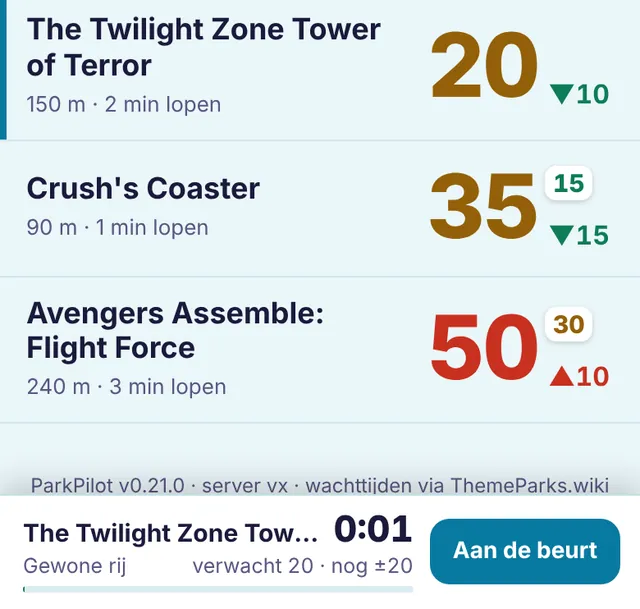
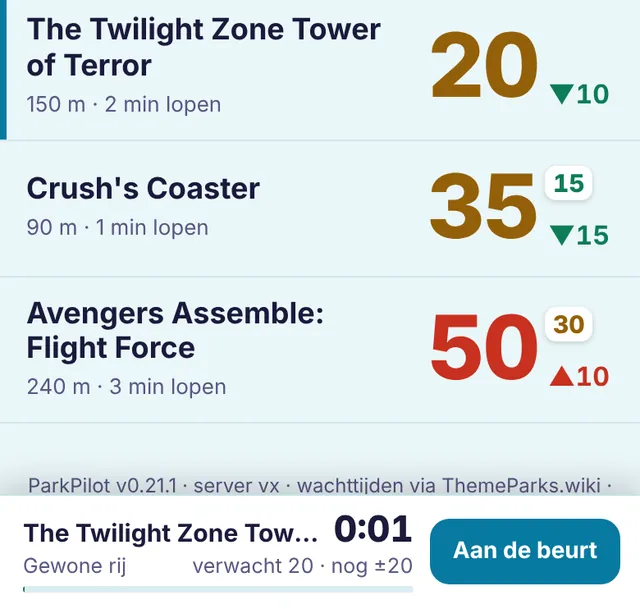
0.21.1: storingstabel sorteren via de kop
Claude-Session: https://claude.ai/code/session_01LXXgKJXN9PFNCm2MGwjbKb

Changed region(s): [[0.0312, 0.78, 0.9688, 0.8112]]

diff --git a/apps/web/src/main.ts b/apps/web/src/main.ts
@@ -321,7 +321,24 @@ async function loadIncidents(): Promise<void> {
   }
 }
 
-/** Tijdlijn van de storingen van vandaag: samenvatting, as van opening tot sluiting, per attractie een balk. */
+/** Sortering van de storingstabel. Standaard nieuwste eerst; onthouden op dit toestel (`pp.incSort`). */
+type IncSortKey = 'time' | 'dur' | 'name';
+const INC_SORT_KEY = 'pp.incSort';
+let incSort: { key: IncSortKey; dir: 1 | -1 } = (() => {
+  try {
+    const v = JSON.parse(store.get(INC_SORT_KEY) ?? 'null') as { key: IncSortKey; dir: 1 | -1 } | null;
+    if (v && ['time', 'dur', 'name'].includes(v.key) && (v.dir === 1 || v.dir === -1)) return v;
+  } catch { /* negeren */ }
+  return { key: 'time', dir: -1 };
+})();
+
+/** Zelfde kop nog eens: omdraaien. Andere kop: tijd en duur beginnen aflopend (nieuwste/langste), naam oplopend (A–Z). */
+function setIncSort(key: IncSortKey): void {
+  incSort = incSort.key === key ? { key, dir: incSort.dir === 1 ? -1 : 1 } : { key, dir: key === 'name' ? 1 : -1 };
+  store.set(INC_SORT_KEY, JSON.stringify(incSort));
+}
+
+/** Storingen van vandaag: samenvatting en een sorteerbare tabel (tijd · duur · attractie). */
 function incidentsNode(close: () => void): HTMLElement {
   const now = Date.now();
   const entry: IncEntry | null = sim.on ? { at: now, ok: true, data: simulateIncidents(state.entities, now) } : incEntry();
@@ -351,22 +368,37 @@ function incidentsNode(close: () => void): HTMLElement {
     return box;
   }
 
-  // Tabel: één regel per storing (tijd · duur · attractie). Lopende eerst, daarna de nieuwste bovenaan.
-  const rows = [...items].sort((x, y) => Number(y.end === null) - Number(x.end === null) || y.s - x.s);
+  // Tabel: één regel per storing (tijd · duur · attractie). Sorteren door op de kop te tikken (sinds 0.21.1).
   const rides = new Set(items.map((x) => x.entityId)).size;
   const totalMin = items.reduce((n, x) => n + x.min, 0);
   box.append(h('p', { class: 'inc-sum' }, ...T.incSummary(items.length, rides, dur(totalMin)).map((part, i) => (i % 2 ? h('b', {}, part) : part))));
-  const table = h('div', { class: 'inc-table', role: 'table' },
-    h('div', { class: 'inc-tr inc-th', role: 'row' },
-      h('span', { role: 'columnheader' }, T.incColTime), h('span', { role: 'columnheader' }, T.incColDur), h('span', { role: 'columnheader' }, T.incColName)));
-  for (const x of rows) {
-    const e = byId.get(x.entityId) as EntityInfo;
-    const live = x.end === null;
-    table.append(h('button', { class: `inc-tr${live ? ' live' : ''}`, role: 'row', onclick: () => { close(); openDetail(e); } },
-      h('span', { class: 'inc-time', role: 'cell' }, `${x.startKnown || hours ? clock(x.s, tz()) : T.incEarlier}–${live ? T.now : clock(x.e, tz())}`),
-      h('span', { class: 'inc-dur', role: 'cell' }, dur(x.min)),
-      h('span', { class: 'inc-name', role: 'cell' }, live ? h('i', { class: 'inc-dot', 'aria-label': T.incOngoing }) : null, e.name)));
-  }
+  const nameOf = (x: typeof items[number]): string => byId.get(x.entityId)?.name ?? '';
+  const table = h('div', { class: 'inc-table', role: 'table' });
+  const paintTable = (): void => {
+    const { key, dir } = incSort;
+    const cmp = (x: typeof items[number], y: typeof items[number]): number =>
+      key === 'dur' ? x.min - y.min : key === 'name' ? nameOf(x).localeCompare(nameOf(y), T.locale) : x.s - y.s;
+    const rows = [...items].sort((x, y) => dir * cmp(x, y) || y.s - x.s);
+    const head = (k: IncSortKey, label: string): Node => {
+      const on = key === k;
+      return h('button', {
+        class: `inc-sort${on ? ' on' : ''}`, role: 'columnheader',
+        'aria-sort': on ? (dir === 1 ? 'ascending' : 'descending') : 'none',
+        onclick: () => { setIncSort(k); paintTable(); },
+      }, label, h('span', { class: 'inc-arrow', 'aria-hidden': 'true' }, on ? (dir === 1 ? '▲' : '▼') : ''));
+    };
+    table.replaceChildren(h('div', { class: 'inc-tr inc-th', role: 'row' },
+      head('time', T.incColTime), head('dur', T.incColDur), head('name', T.incColName)));
+    for (const x of rows) {
+      const e = byId.get(x.entityId) as EntityInfo;
+      const live = x.end === null;
+      table.append(h('button', { class: `inc-tr${live ? ' live' : ''}`, role: 'row', onclick: () => { close(); openDetail(e); } },
+        h('span', { class: 'inc-time', role: 'cell' }, `${x.startKnown || hours ? clock(x.s, tz()) : T.incEarlier}–${live ? T.now : clock(x.e, tz())}`),
+        h('span', { class: 'inc-dur', role: 'cell' }, dur(x.min)),
+        h('span', { class: 'inc-name', role: 'cell' }, live ? h('i', { class: 'inc-dot', 'aria-label': T.incOngoing }) : null, e.name)));
+    }
+  };
+  paintTable();
   box.append(table);
   if (stale) box.append(h('p', { class: 'inc-stale' }, T.histStale(clock(entry.at, tz()))));
   box.append(h('p', { class: 'hint' }, T.incHint));

diff --git a/apps/web/src/i18n.ts b/apps/web/src/i18n.ts
@@ -85,7 +85,7 @@ const nl = {
   incColDur: 'Duur',
   incColName: 'Attractie',
   incEarlier: 'eerder',
-  incHint: 'Op basis van metingen van ParkPilot, elke 5 minuten. Tik op een regel voor het verloop.',
+  incHint: 'Op basis van metingen van ParkPilot, elke 5 minuten. Tik op een kop om te sorteren (nog eens = omgekeerd), op een regel voor het verloop.',
   issuesHint: 'De duur komt uit wat ParkPilot zelf heeft gezien. "Al minstens" betekent dat de sluiting al liep toen ParkPilot begon te meten. Onder Onderhoud staan ook attracties die al meer dan een dag dicht zijn zonder update van de bron; de datum is de laatste update.',
 
   // Rijen
@@ -552,7 +552,7 @@ const en: Dict = {
   incColDur: 'Duration',
   incColName: 'Ride',
   incEarlier: 'earlier',
-  incHint: 'Based on ParkPilot’s own measurements, every 5 minutes. Tap a row for its timeline.',
+  incHint: 'Based on ParkPilot’s own measurements, every 5 minutes. Tap a heading to sort (again = reverse), a row for its timeline.',
   issuesHint: 'The duration is based on what ParkPilot has seen itself. "For at least" means the closure was already going on when ParkPilot started measuring. Refurbishment also lists rides that have been closed for more than a day without an update from the source; the date is the last update.',
 
   changed: (ago) => `changed ${ago}`,
@@ -1003,7 +1003,7 @@ const pt: Dict = {
   incColDur: 'Duração',
   incColName: 'Atração',
   incEarlier: 'antes',
-  incHint: 'Com base nas medições do ParkPilot, a cada 5 minutos. Toque numa linha para ver o histórico.',
+  incHint: 'Com base nas medições do ParkPilot, a cada 5 minutos. Toque num cabeçalho para ordenar (de novo = inverter), numa linha para ver o histórico.',
   issuesHint: 'A duração baseia-se no que o próprio ParkPilot viu. "Há pelo menos" significa que o fecho já estava a decorrer quando o ParkPilot começou a medir. Em Manutenção aparecem também atrações fechadas há mais de um dia sem atualização da fonte; a data é a última atualização.',
 
   changed: (ago) => `alterado ${ago}`,

diff --git a/apps/web/src/style.css b/apps/web/src/style.css
@@ -583,6 +583,9 @@ html.game-open, html.game-open body { overflow: hidden; }
 .inc-tr { display: grid; grid-template-columns: 94px 68px minmax(0, 1fr); gap: 8px; align-items: center; width: 100%; text-align: left; padding: 7px 12px; font-size: 14px; line-height: 1.3; border-top: 1px solid color-mix(in srgb, var(--line) 70%, transparent); }
 .inc-tr:active { background: var(--raised2); }
 .inc-th { border-top: 0; padding-top: 6px; padding-bottom: 5px; font-size: 11px; font-weight: 700; letter-spacing: .05em; text-transform: uppercase; color: var(--muted); background: color-mix(in srgb, var(--raised2) 55%, var(--raised)); }
+.inc-sort { display: inline-flex; align-items: center; gap: 3px; min-height: 28px; margin: -6px 0 -5px; font: inherit; letter-spacing: inherit; text-transform: inherit; color: inherit; text-align: left; touch-action: manipulation; user-select: none; -webkit-user-select: none; }
+.inc-sort.on { color: var(--text); }
+.inc-arrow { font-size: 9px; color: var(--accent); min-width: 9px; }
 .inc-time, .inc-dur { font-variant-numeric: tabular-nums; white-space: nowrap; }
 .inc-time { font-weight: 650; }
 .inc-dur { color: var(--muted); }

diff --git a/apps/web/src/changelog.ts b/apps/web/src/changelog.ts
@@ -8,6 +8,13 @@ export interface ChangelogEntry { version: string; date?: string; changes: strin
 
 export const CHANGELOG: ChangelogEntry[] = [
   {
+    version: '0.21.1',
+    date: '2026-11-21',
+    changes: ['Storingstabel sorteren: tik op Tijd, Duur of Attractie. Nog eens tikken draait de volgorde om. De keuze wordt onthouden.'],
+    en: ['Sort the breakdowns table: tap Time, Duration or Ride. Tap again to reverse the order. Your choice is remembered.'],
+    pt: ['Ordenar a tabela de avarias: toque em Hora, Duração ou Atração. Toque de novo para inverter a ordem. A escolha fica guardada.'],
+  },
+  {
     version: '0.21.0',
     date: '2026-11-21',
     changes: [

diff --git a/packages/shared/src/version.ts b/packages/shared/src/version.ts
@@ -1,2 +1,2 @@
 /** Eén bron voor het versienummer; app en server tonen dit allebei. Verhoog bij elke oplevering. */
-export const APP_VERSION = '0.21.0';
+export const APP_VERSION = '0.21.1';

diff --git a/HANDOVER.md b/HANDOVER.md
@@ -1,6 +1,6 @@
 # ParkPilot: overdrachtsdocument
 
-Eerste versie 21 november 2026. **Laatst bijgewerkt: 21 november 2026, 23:15** (zie logboek, hoofdstuk 16). Doel: een nieuwe Claude-chat, ook in een ander account, kan hiermee zonder voorkennis verder bouwen. Alles wat nodig is staat hier of in de repo. Lees dit eerst helemaal, vooral de hoofdstukken 2, 3, 4.1, 12 en **15**.
+Eerste versie 21 november 2026. **Laatst bijgewerkt: 21 november 2026, 23:00** (zie logboek, hoofdstuk 16). Doel: een nieuwe Claude-chat, ook in een ander account, kan hiermee zonder voorkennis verder bouwen. Alles wat nodig is staat hier of in de repo. Lees dit eerst helemaal, vooral de hoofdstukken 2, 3, 4.1, 12 en **15**.
 
 **Vaste afspraak:** Claude werkt dit document bij na elke wijziging, beslissing of nieuwe kennis, in dezelfde beurt, zowel in het claude.ai-project "ParkPilot" (`claude/ParkPilot-HANDOVER.md`) als in de repo (`HANDOVER.md`). Wat Claude leert over Remco's werkwijze en voorkeuren, en alles wat hij een "framework feature" noemt, gaat naar hoofdstuk 15.
 
@@ -14,7 +14,7 @@ Eerste versie 21 november 2026. **Laatst bijgewerkt: 21 november 2026, 23:15** (
 - **Live:** https://parkpilot.remco-dv.workers.dev
 - **Repo:** https://github.com/RemcoNLD/parkpilot (publiek). Cloudflare Workers Builds bouwt en deployt automatisch bij elke commit.
 - **Stack:** Vite + TypeScript (vanilla, geen framework) · één Cloudflare Worker (API + statische assets) · Cloudflare D1 (SQLite) · live data van ThemeParks.wiki.
-- **Versie in de code:** `0.21.0` (`packages/shared/src/version.ts` en `package.json`), gepusht naar `main` op 21 nov 2026 ~23:15: langdurig dicht → Onderhoud (6.14) en storingen van vandaag als compacte tabel (6.13). Daarvoor 0.20.0 (storingen als tijdlijnen, door Remco afgekeurd) en 0.19.0 (commit a08faa6): grijs bij een stille bron (6.5b), rondleiding met schermafbeeldingen (6.12), menuknop ☰, waarschuwingen bij de koppelcode. Daarvoor 0.18.1 (grafiek opening–sluiting) en 0.18.0 (rondleiding, help, stippellijn). Nog niet door Remco bevestigd. 0.9.0 (single rider) bevestigd met "Werkt".
+- **Versie in de code:** `0.21.1` (`packages/shared/src/version.ts` en `package.json`), gepusht naar `main` op 21 nov 2026 ~23:00: storingstabel sorteerbaar via de kop (6.13). Daarvoor 0.21.0: langdurig dicht → Onderhoud (6.14) en storingen van vandaag als compacte tabel (6.13). Daarvoor 0.20.0 (storingen als tijdlijnen, door Remco afgekeurd) en 0.19.0 (commit a08faa6): grijs bij een stille bron (6.5b), rondleiding met schermafbeeldingen (6.12), menuknop ☰, waarschuwingen bij de koppelcode. Daarvoor 0.18.1 (grafiek opening–sluiting) en 0.18.0 (rondleiding, help, stippellijn). Nog niet door Remco bevestigd. 0.9.0 (single rider) bevestigd met "Werkt".
 - **Rondleiding en help (sinds 0.18.0):** zie 6.12. De menuknop rechtsboven (☰, sinds 0.19.0; was een tandwiel) opent Instellingen / Help / Rondleiding.
 - **Bij elke nieuwe versie:** nummer ophogen in `version.ts` + `package.json` **én** een regel toevoegen bovenaan `apps/web/src/changelog.ts` (in de app: Instellingen > Wat is er nieuw), in het Nederlands (`changes`), Engels (`en`) én Portugees (`pt`), datum als `JJJJ-MM-DD`. Korte, gewone taal, gericht op wat Remco ziet.
 - **Meertalig:** Nederlands, Engels (sinds 0.13.0) en Portugees (sinds 0.16.0). Elke tekst in de app staat in `apps/web/src/i18n.ts` (nl + en + pt). Nooit losse teksten in `main.ts`; nieuwe teksten altijd in alle drie de talen; zie 6.9.
@@ -156,7 +156,7 @@ De oude losse bestanden in de repo-root (`dom.ts`, `main.ts` enz. van de eerste 
 - De live-route leest D1, schrijft niet.
 
 ### Frontend-state en opslag
-- localStorage: `pp.cache.<park>`, `pp.parks`, `pp.park`, `pp.pos`, `pp.theme`, `pp.lang` (alleen bij een vaste taalkeuze), `pp.density`, `pp.sim`, `pp.issuesSeen.<park>` (+ `.sim.`), `pp.hist.<park>` (wachttijdverloop van vandaag, zie 6.5), `pp.queue` (rij waar je nu in staat) en `pp.queueLog` (afgeronde rijen van vandaag), zie 6.10; `pp.gameName`, `pp.gameAsk` (`never` = niet vragen), `pp.gameBest` (record per naam) en `pp.gamePending` (nog niet verstuurde scores), zie 6.11; `pp.tour` (`done` = rondleiding gezien of overgeslagen), zie 6.12; `pp.ref.<park>` (stippellijn-gegevens van vandaag), zie 6.5; `pp.inc.<park>` (storingen van vandaag, voor de storingspagina bij slecht bereik), zie 6.13. Alles in try/catch via een `store` helper.
+- localStorage: `pp.cache.<park>`, `pp.parks`, `pp.park`, `pp.pos`, `pp.theme`, `pp.lang` (alleen bij een vaste taalkeuze), `pp.density`, `pp.sim`, `pp.issuesSeen.<park>` (+ `.sim.`), `pp.hist.<park>` (wachttijdverloop van vandaag, zie 6.5), `pp.queue` (rij waar je nu in staat) en `pp.queueLog` (afgeronde rijen van vandaag), zie 6.10; `pp.gameName`, `pp.gameAsk` (`never` = niet vragen), `pp.gameBest` (record per naam) en `pp.gamePending` (nog niet verstuurde scores), zie 6.11; `pp.tour` (`done` = rondleiding gezien of overgeslagen), zie 6.12; `pp.ref.<park>` (stippellijn-gegevens van vandaag), zie 6.5; `pp.inc.<park>` (storingen van vandaag, voor de storingspagina bij slecht bereik) en `pp.incSort` (sortering van die tabel), zie 6.13. Alles in try/catch via een `store` helper.
 - Service worker (`public/sw.js`): app-schil offline; `/api/*` niet bewaard. Navigatie netwerk-eerst met 5 s time-out, rest stale-while-revalidate.
 
 ---
@@ -317,11 +317,12 @@ Doet alsof je in het park staat ("Ik sta bij …"): park open, eigen locatie, ve
   - Eén regel samenvatting: "**6** storingen bij **5** attracties, samen **2 u 38 min**" (eerste getal rood).
   - Tabel in een afgeronde kaart, kop TIJD · DUUR · ATTRACTIE, **één regel per storing** (~33 px hoog): "11:15–12:05 · 50 min · Frozen Ever After". Kolommen in px (94 / 68 / rest), anders verspringt de kop omdat die een kleinere letter heeft. Lange namen afgekapt met …. Volgorde: lopend eerst, daarna nieuwste bovenaan. Lopend: lichtrode regel, tijd en duur rood, "13:30–nu", knipperend stipje voor de naam. Tik op een regel → detailvenster met grafiek.
   - **Alleen binnen de openingstijden telt:** periodes afgekapt op opening/sluiting (een `down` terwijl het park dicht is, is geen storing).
+  - **Sorteren (sinds 0.21.1, Remco 22:52: "Ik wil de tabel … kunnen sorteren door op de kop te klikken/tappen. Zowel oplopend als aflopend."):** de koppen zijn knoppen (`.inc-sort`, `aria-sort`). Zelfde kop nog eens = omdraaien; andere kop: Tijd en Duur beginnen aflopend (nieuwste/langste), Attractie oplopend (A–Z). Pijltje ▲/▼ in de accentkleur bij de actieve kop. Gelijke waarden: nieuwste eerst. Alleen de tabel wordt opnieuw opgebouwd (`paintTable()`). Onthouden op dit toestel in `pp.incSort` (`{key: time|dur|name, dir: 1|-1}`), standaard Tijd aflopend. Sinds 0.21.1 staan lopende storingen niet meer apart bovenaan; ze sorteren gewoon mee (op begintijd).
   - Ophalen bij openen van de pagina (`loadIncidents()`, hooguit 1× per minuut), bewaard in `pp.inc.<park>` (alleen vandaag). Geen bereik: laatste stand grijs met "Niet actueel · gegevens van HH:MM" (zelfde aanpak als 6.5). Simulatie: `simulateIncidents()`.
 - Nauwkeurigheid: 5 min (cron). Een storing korter dan één cron-ronde kan gemist worden.
 - Kosten: alleen lezen (één query over de rijen van vandaag), cache 60 s, alleen bij openen van de storingspagina.
 - Code: `buildIncidents()` in `worker/src/tracker.ts`, route `incidents`, type `IncidentsResponse`, `fetchIncidents`, `incidentsNode()`/`openIssues()` in `main.ts`, teksten `inc…` in `i18n.ts` (`incSummary` geeft afwisselend tekst en vet getal), CSS-blok onderaan `style.css`.
-- Getest: worker-test; screenshots `PP_RICH=1 bash tools/screenshot.sh [light|dark] issues` (licht/nl, donker/pt). Niet met echte data of op een iPhone.
+- Getest: worker-test; screenshots `PP_RICH=1 bash tools/screenshot.sh [light|dark] issues` (licht/nl, donker/pt; het scenario tikt ook op Duur, nog eens Duur en Attractie en maakt uitsneden `…-sort-*.png`). Niet met echte data of op een iPhone.
 
 ### 6.14 Langdurig dicht → Onderhoud (sinds 0.21.0)
 - Aanleiding: de bron meldt renovaties vaak als gewoon `CLOSED` (Crush's Coaster, zie 7.1). Remco (22:43): "Ja doe maar die logica voor onderhoud."
@@ -397,6 +398,8 @@ Doet alsof je in het park staat ("Ik sta bij …"): park open, eigen locatie, ve
 - **Testbranch `claude/koppeltest`** staat nog op GitHub (Claude kan geen branches verwijderen). Remco kan hem verwijderen via GitHub → Branches.
 
 **0.10.0 (21 nov 2026), door Remco te controleren:** knop "Gezien", regel "Afgestreept (N)", past de balk met drie knoppen nog op zijn scherm.
+
+**0.21.1 (21 nov 2026), door Remco te controleren:** sorteren door op Tijd/Duur/Attractie te tikken, nog eens tikken draait om; reageert de kop goed op de iPhone?
 
 **0.21.0 (21 nov 2026), door Remco te controleren:** staat Crush's Coaster nu onder Onderhoud met "dicht sinds 6 sep" (ook in de storingstegel grijs)? Staan er attracties ten onrechte onder Onderhoud? Tabel met storingen van vandaag: leesbaar, compact genoeg, worden namen te veel afgekapt?
 
@@ -599,8 +602,9 @@ Claude vult dit aan zodra iets nieuws blijkt. Geldt **voor elke app** van Remco.
 - **21 nov 2026, 08:45:** Remco bevestigt 0.5.0. Wil vanaf telefoon werken. Afspraken toegevoegd: document altijd bijwerken; hoofdstuk 15 en dit logboek aangemaakt. Licht/donker-schakelaar als eerste framework feature benoemd.
 - **21 nov 2026, 08:51–08:55:** GitHub gekoppeld (eerst per ongeluk op "Add custom connector"; juiste route in 4.1). Lezen werkte eerst, schrijven pas na installatie van de Claude GitHub App. Branch-push getest (werkt); branch verwijderen geblokkeerd, `claude/koppeltest` blijft staan. Bij het lezen gevonden: `tools/` ontbreekt, oude losse bestanden in de root, `HANDOVER.md` ontbrak.
 - **21 nov 2026, 09:00:** `HANDOVER.md` toegevoegd aan de repo als eerste commit van Claude. Rechtstreeks naar `main` pushen werkt.
-- **21 nov 2026, 23:15 — versie 0.21.0:** Remco (22:43): onderhoudslogica bouwen; tijdlijnen niet mooi, liever tijd/duur/naam als tabel, minder verticale ruimte. Gebouwd: `isLongClosed()` + `liveMap()` (6.14), tabel (6.13). Versie 0.21.0 (nieuwe functie). 38 × ok; screenshots licht/nl, donker/pt; rondleidingsafbeeldingen opnieuw.
-- **21 nov 2026, 22:55 — versie 0.20.0:** Remco (22:28): historie van de dag op de storingspagina (welke attracties, hoe laat, hoe lang, "een beetje tof") en checken of er een betere bron is voor renovaties. Gebouwd: endpoint `incidents`, blok Vandaag met tegels, tijdlijn en chips (6.13). Bron onderzocht (7.1): geen betere bron; Crush's Coaster staat als `CLOSED`; voorstel om langdurige sluitingen te herkennen via bron-`updatedAt` (backlog 11). 37 × ok; screenshots licht/donker, nl/en/pt; rondleidingsafbeeldingen opnieuw gemaakt.
+- **21 nov 2026, 23:00 — versie 0.21.1:** Remco (22:52): storingstabel sorteren via de kop, oplopend en aflopend. Gebouwd (6.13), onthouden in `pp.incSort`. Patchnummer (kleine verbetering). 38 × ok; screenshots van drie sorteringen bekeken.
+- **21 nov 2026, 22:50 — versie 0.21.0:** Remco (22:43): onderhoudslogica bouwen; tijdlijnen niet mooi, liever tijd/duur/naam als tabel, minder verticale ruimte. Gebouwd: `isLongClosed()` + `liveMap()` (6.14), tabel (6.13). Versie 0.21.0 (nieuwe functie). 38 × ok; screenshots licht/nl, donker/pt; rondleidingsafbeeldingen opnieuw.
+- **21 nov 2026, 22:40 — versie 0.20.0:** Remco (22:28): historie van de dag op de storingspagina (welke attracties, hoe laat, hoe lang, "een beetje tof") en checken of er een betere bron is voor renovaties. Gebouwd: endpoint `incidents`, blok Vandaag met tegels, tijdlijn en chips (6.13). Bron onderzocht (7.1): geen betere bron; Crush's Coaster staat als `CLOSED`; voorstel om langdurige sluitingen te herkennen via bron-`updatedAt` (backlog 11). 37 × ok; screenshots licht/donker, nl/en/pt; rondleidingsafbeeldingen opnieuw gemaakt.
 - **21 nov 2026, 21:45 — versie 0.19.0:** Remco (21:11): tandwiel in rondleiding corrigeren + framework-notitie help bijwerken; screenshots bij de slides en actueel houden + framework-notitie; waarschuwingen eigen/sterke code + kopieerknop; lange stukken zonder update grijs in Alles, Mijn dag en grafiek, ook in de rondleiding. Oorzaak eerst onderzocht met de live-API: de bron werkt sommige attracties uren niet bij (6.5b). Gebouwd: stale-registratie in de cron (migratie 0007), grijs in de app, menuknop ☰, 9e stap, `tools/tour-shots.sh` met 48 afbeeldingen, codewaarschuwingen. Versie 0.19.0 (nieuwe functies). 36 × ok; screenshots rondleiding (licht/nl, donker/pt), help, instellingen. Gepusht (commit a08faa6).
 - **21 nov 2026, 18:15 — versie 0.18.1:** Remco: redesign grafiek (opening tot sluiting, stippellijn door de hele grafiek, vandaag van links, hulplijnen weg, schaal op historie en hoger als nodig). Gebouwd in `sparkline()` + `todayHours()` (6.5). Versie 0.18.1 (verbetering = patch, zie 15.1). 35 × ok; screenshots open/dicht/onbekend, nl/pt, licht/donker.
 - **21 nov 2026, 17:14 — versie 0.18.0 live (+ 0.17.3), met stippellijn:** Remco (17:05): "Ga verder en voeg nog even een stippellijntje toe … vorige zelfde werkdag … Pas het versienummer niet aan maar zet het wel even in de toevoegingen erbij in releasenotes." Nieuwe chat: `add_repo` werkte; repo stond op 0.17.2 (zip niet geüpload), dus 0.17.3 en 0.18.0 eerst opnieuw gebouwd volgens 6.4/6.12, daarna de stippellijn (6.5): gemiddelde zelfde weekdag 4 weken, bewaartermijn 7 → 29 dagen, endpoint `?ref=weeks`. Alles in changelog-versie 0.18.0 (stippellijn als derde regel), 0.17.3 eigen regel. 35 × ok, typechecks ok, screenshots (tour licht/nl + donker/pt, help donker/nl, instellingen, Alles uitgeklapt licht/nl, donker/pt, licht/en). Rechtstreeks naar `main` gepusht (commit 5557b31). De eerder geleverde zip is overbodig.
